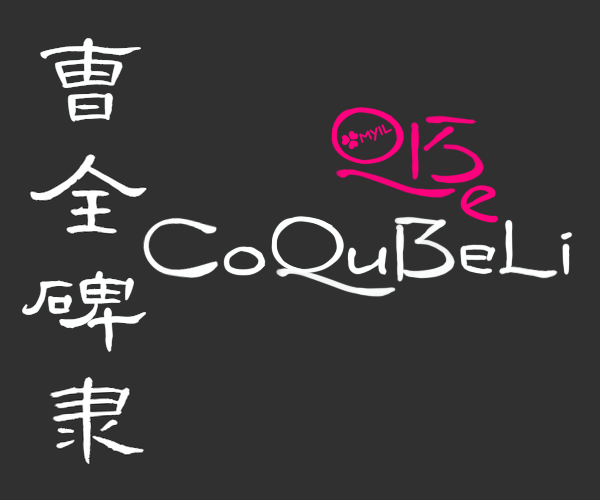
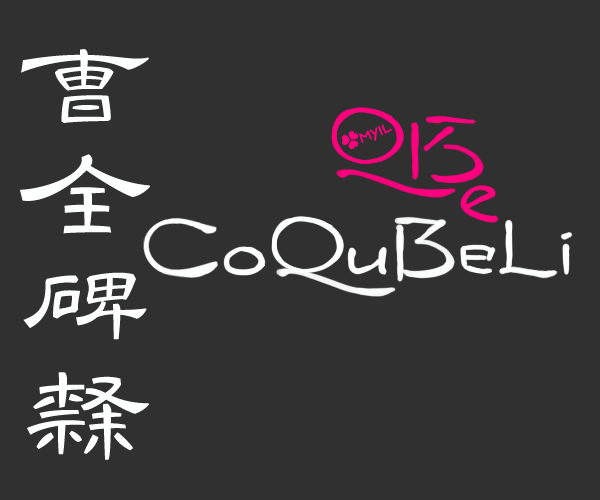
ver0

diff --git a/README.md b/README.md
@@ -1,16 +1,43 @@
 # 曺全碑隸 (暂名)
 起初是想找点免费美观的隶书字体，没找到合适的，于是创建了个开源「黑体汉隶」计划，相当于复刻曹全碑。
 
-下图只是打个比方，实际接近黑体风格，图里“CoQuBeLi”是汉隶风格西文的构思草稿，除了“〇”都有曹全碑字笔画对应。预感该字体汉字部分不适合横排，将注重于竖排特性。计划用OpenType特性及扩充区〔SIP、TIP〕汉字来支持隶书异体、篆书古形……
+下图里“CoQuBeLi”是汉隶风格西文的构思草稿，除了“〇”都有曹全碑字笔画对应。预感该字体汉字部分不适合横排，将注重于竖排特性。计划用OpenType特性及扩充区〔SIP、TIP〕汉字来支持隶书异体、篆书古形……
 
 ![曹全碑隶](CoQuBeLi.png)
 
 ## 关于制作
 「字形」和「字符」并不一一对应，在本字体中将大量出现复用字形（多字符对一字形）的情况，如输入「曹曺」均显示为「曺」、输入「機机」可能都是「機」。
 
-西文准备用汉字笔画拼成，所以会在汉字量足够拼后再做。
+西文、标点准备用汉字笔画拼成，所以会在汉字量足够拼后再做。
 
 我会在 […宽泛统计.txt](docs/曹全碑文宽泛统计.txt) 等文件里列出字符对应碑阳具体的哪个字形。
+
+- 2022-7-7 v0：发布概念版字体，看看效果如何。
+
+## 预期特性
+- `ccmp`字形重组，例如用于不中断的破折号 ~和变体选择符~
+- `fwid`全角字宽，基本上是西文特性
+- `kern`调字偶距，基本上是西文特性
+- `pwid`比例字宽，基本上是西文特性
+- `ss01`样式集＃，最多支持到`ss17`
+- `vert`竖排替换，东亚特性
+- `vrt2`竖排旋替，希望不旋转地解决西文竖排
+- `liga`标准连字，例如~ABAJ→啊~ `fi`→`ﬁ`
+- `cpct`标点居中，东亚特性
+- `vkrn`竖排字距，东亚特性，希望借以解决西文竖排
+- 变体选择符（非OT特性的）
+<!--
+- `aalt`Access All Alternates
+- `calt`Contextual Alternates
+- `dlig`Discretionary Ligatures
+- `halt`Alternate Half Widths
+- `hist`
+- `mark`
+- `palt`Proportional Alternate Widths
+- `vhal`Alternate Vertical Half Metrics
+- `hwid`半角字宽
+- `vpal`Proportional Alternate Vertical Metrics
+-->
 
 ## docs
 
@@ -23,6 +50,7 @@
     - 注1：为了对齐，仅计次用的17进制，`之×H`即`之×17`，字形记作`之1`。顺带：B=11，C=12。
     - 注2：`怀_2`是特例，字形记作`懷`，按碑上下文看，可当作`褱×2`（字形记作`褱`）的异体。
 - **碑外字**（曹全碑未出现的字）用`+`号强调，如「碑」字记作`碑+`，我将优先制作`碑` `隶\隸` `綿` `飴`。
+    - 2022-7-7注：`碑` `隸`已经制作了。
 - 每行`|`后方为注释。`≈`表示差不多同义，`→`表示错别字，`?`表示搞不懂是否别字。顺带，百度百科错误太多。
 - 当前字形制作优先级：孤字清晰 > 复字择优 > 孤字破损 > 碑外造字。
 - 由于个人原创汉字字体十分艰巨，如果有感兴趣的同好来帮忙，除了上上行所提，该文本未列出的也就是我一时不会做的字，这样就不会撞车了。
